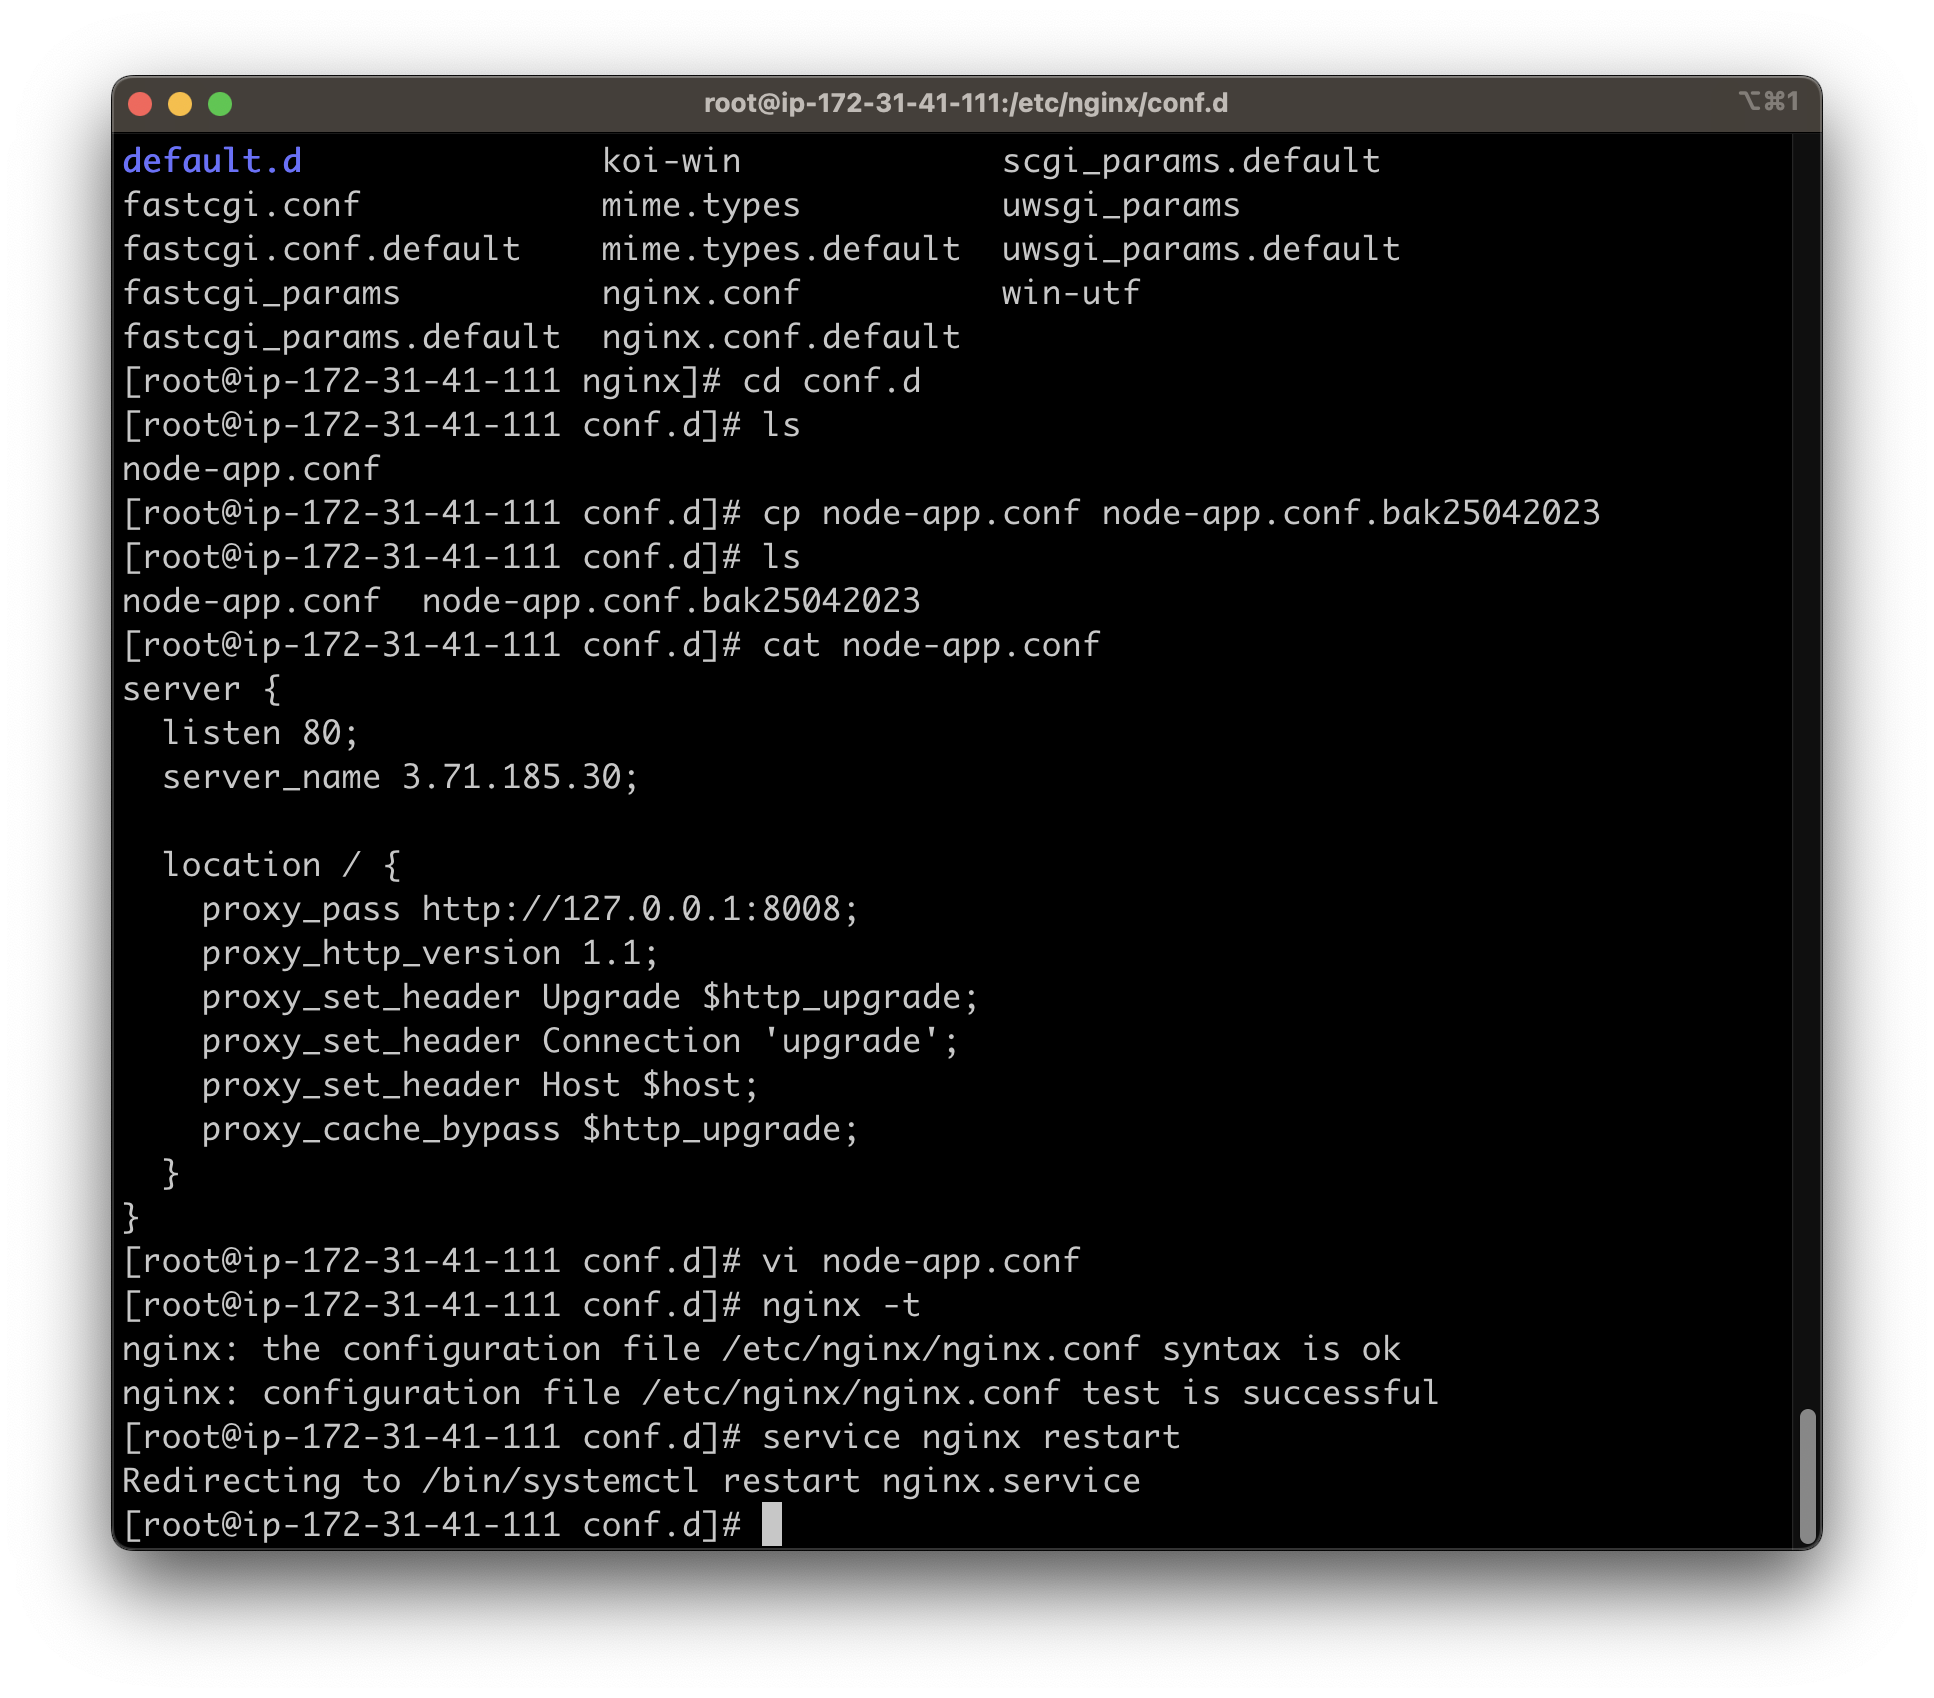
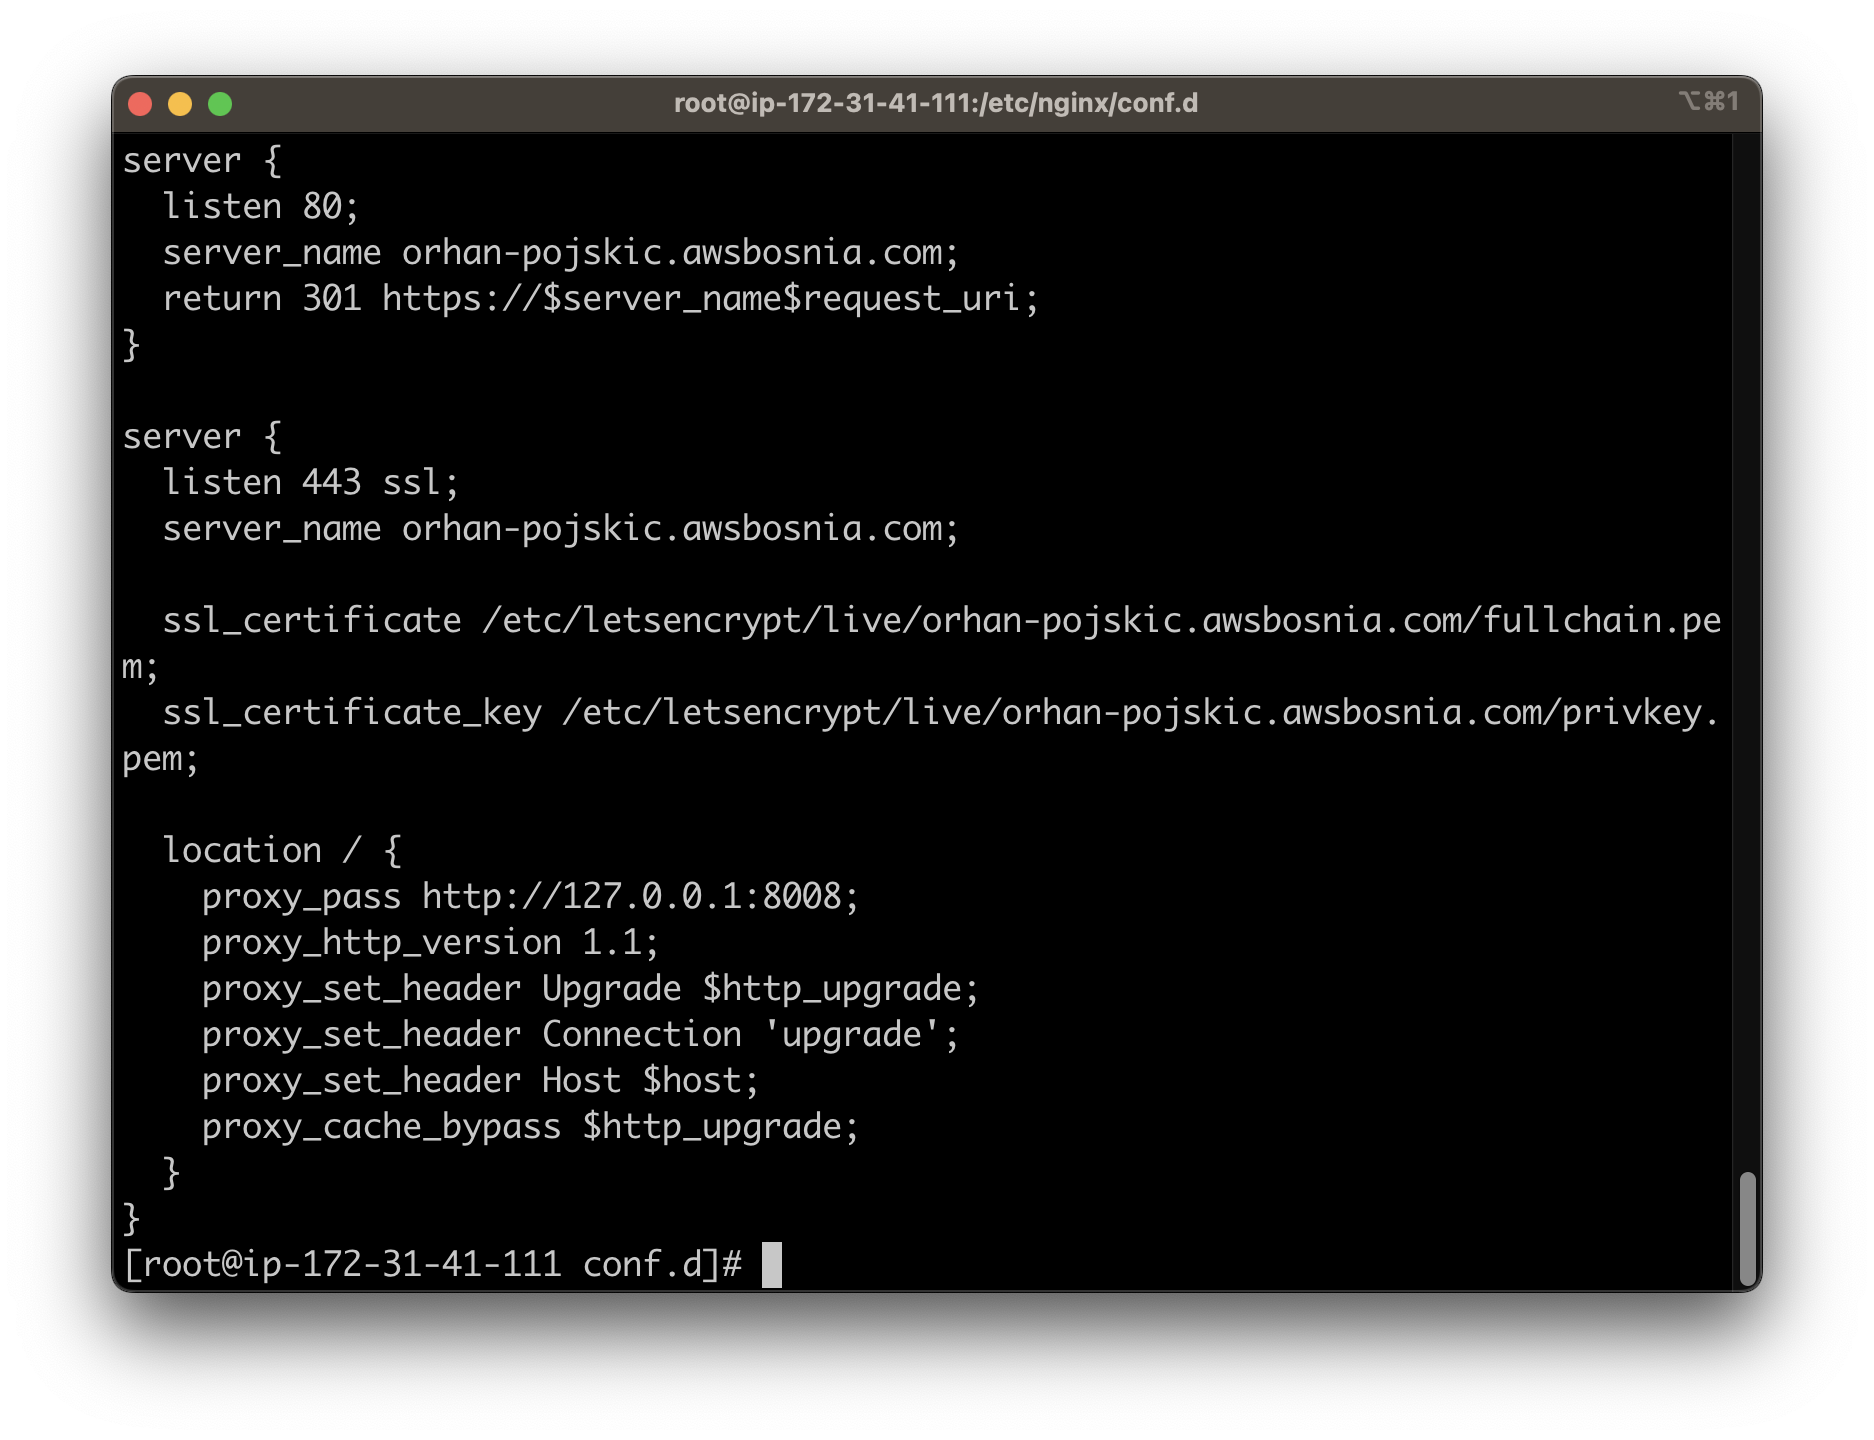
added remaining screenshots and finished editing TASK8-README.md

Changed region(s): [[0.0309, 0.0312, 0.9594, 0.9375], [0.8047, 0.4688, 0.8975, 0.5], [0.6809, 0.4688, 0.7737, 0.5]]

diff --git a/week-9/Task-8-README.md b/week-9/Task-8-README.md
@@ -1,5 +1,7 @@
 # Implement SSL Let's Encrypt, migrate to AWS ACM
-1. Kreiranje nove EC2 instance od AMI image `ec2-orhan-pojskic-web-server` pod nazivom `ec2-orhan-pojskic-task-8`
+1.  Kreiranje nove EC2 instance od AMI image `ec2-orhan-pojskic-web-server` pod nazivom `ec2-orhan-pojskic-task-8`
+
+
 2. Kreiranje DNS Record-a pod nazivom `orhan-pojskic.awsbosnia.com` koristeci AWS CLI komande
 	- `aws configure` -> unos kredencijala
 		- unos `AWS Access Key ID`
@@ -7,6 +9,8 @@
 		- unos `Default region name`
 		- unos `Default output format`
 	- `aws route53 change-resource-record-sets --hosted-zone -id Z3LHP8UIUC8CDK --change-batch ' {"Changes": [{"Action": "CREATE", "ResourceRecor dSet": {"Name": "orhan-pojskic.awsbosnia.com.", "Type": "A" , "TTL": 60, "ResourceRecord s": [{"Value": "18.198.201.241"373313'` -> kreiranje DNS Recorda
+
+
 3. Konfiguracija Lets Encrypt SSL certifikata:
 	1. konfiguracija `certbot`-a
 		1. `sudo dnf install python3 augeas-libs`
@@ -17,4 +21,47 @@
 		6. `sudo certbot certonly --nginx`
 	2. Konfiguracija nginx config fajla na nacin da slusa port `443` i konfiguracija lokacije kreiranih certifikacijskih fajlova
 	3. Otvaranje porta `443` unutar security grupe za ec2 instancu `ec2-orhan-pojskic-task-8`
-4. `openssl ×509 -text -in fullchain.pem -noout` -> iskoristena komanda za provjeru SSL certifikata i svih ostalih informacija
+
+
+4. `openssl ×509 -text -in fullchain.pem -noout` -> iskoirstena komanda za provjeru SSL certifikata i svih ostalih informacija
+
+
+5. Importovan Lets Encrypt certifikat unutar ACM:
+	1. Kopiran `cert.pem`
+	2. Kopiran `privkey.pem`
+	3. Kopiran `fullchain.pem`
+
+
+6. Podeševanje ALB:
+	1. Application Load Balancer Type
+	2. Target grupa kojoj salje prosljedjuje saobracaj je sacinjena od `ec2-orhan-pojskic-task-8`
+	3. `Listeners` sektor za ALB je podesen na nacin da sluša port 80
+	4. konfiguracija DNS recorda na nacin da se mijenja `value` sa IP adrese na `ALB DNS` komandama:
+	- brisanje DNS recorda koji je vezan za IP adresu EC2 instance
+	```
+	aws route53 change-resource-record-sets --hosted-zone-id Z3LHP8UIUC8CDK --change-batch '{"Changes":[{"Action":"DELETE","ResourceRecordSet":{"Name":"orhan-pojskic.awsbosnia.com.","Type":"A","TTL":60,"ResourceRecords":[{"Value":"18.156.35.149"}]}}]}'
+	```
+	- brisanje DNS recorda koji je vezan za IP adresu EC2 instance
+	```
+	aws route53 change-resource-record-sets --hosted-zone-id Z3LHP8UIUC8CDK --change-batch '{"Changes":[{"Action":"CREATE","ResourceRecordSet":{"Name":"orhan-pojskic.awsbosnia.com.","Type":"CNAME","TTL":60,"ResourceRecords":[{"Value":"alb-task-8-1552194352.eu-central-1.elb.amazonaws.com"}]}}]}'
+	```
+	5. Nakon uspjesnog spajanja na browser, podesava se 443 port na ALB i bira se lets encrypt certifikat
+	6. Konfigurise se node-app.conf na nacin da slusa samo port 80
+	7. Brisanje porta 80 na ALB
+
+
+7. Kreiranje novog SSL certifikata unutar AWS Certificate Menager-a:
+	1. Unos DNS za koji zelimo certifikat
+	2. DNS validacija:
+		- Unos CNAME name i CNAME value za dobijeni certifikat
+	```
+	aws route53 change-resource-record-sets --hosted-zone-id Z3LHP8UIUC8CDK --change-batch '{"Changes":[{"Action":"DELETE","ResourceRecordSet":{"Name":"orhan-pojskic.awsbosnia.com.","Type":"A","TTL":60,"ResourceRecords":[{"Value":"18.156.35.149"}]}}]}'
+	```
+	3. Odabir Amazon Issued certifikata u polju `Listeners` sektora ALB-a
+
+
+8. Koristena komanda za ispis certifikata i datum njegovog isteka
+```
+echo | openssl s_client -showcerts -servername orhan-pojskic.awsbosnia.com -connect orhan-pojskic.awsbosnia.com:443 2>/dev/null | openssl x509 -inform pem -noout -text
+```
+
